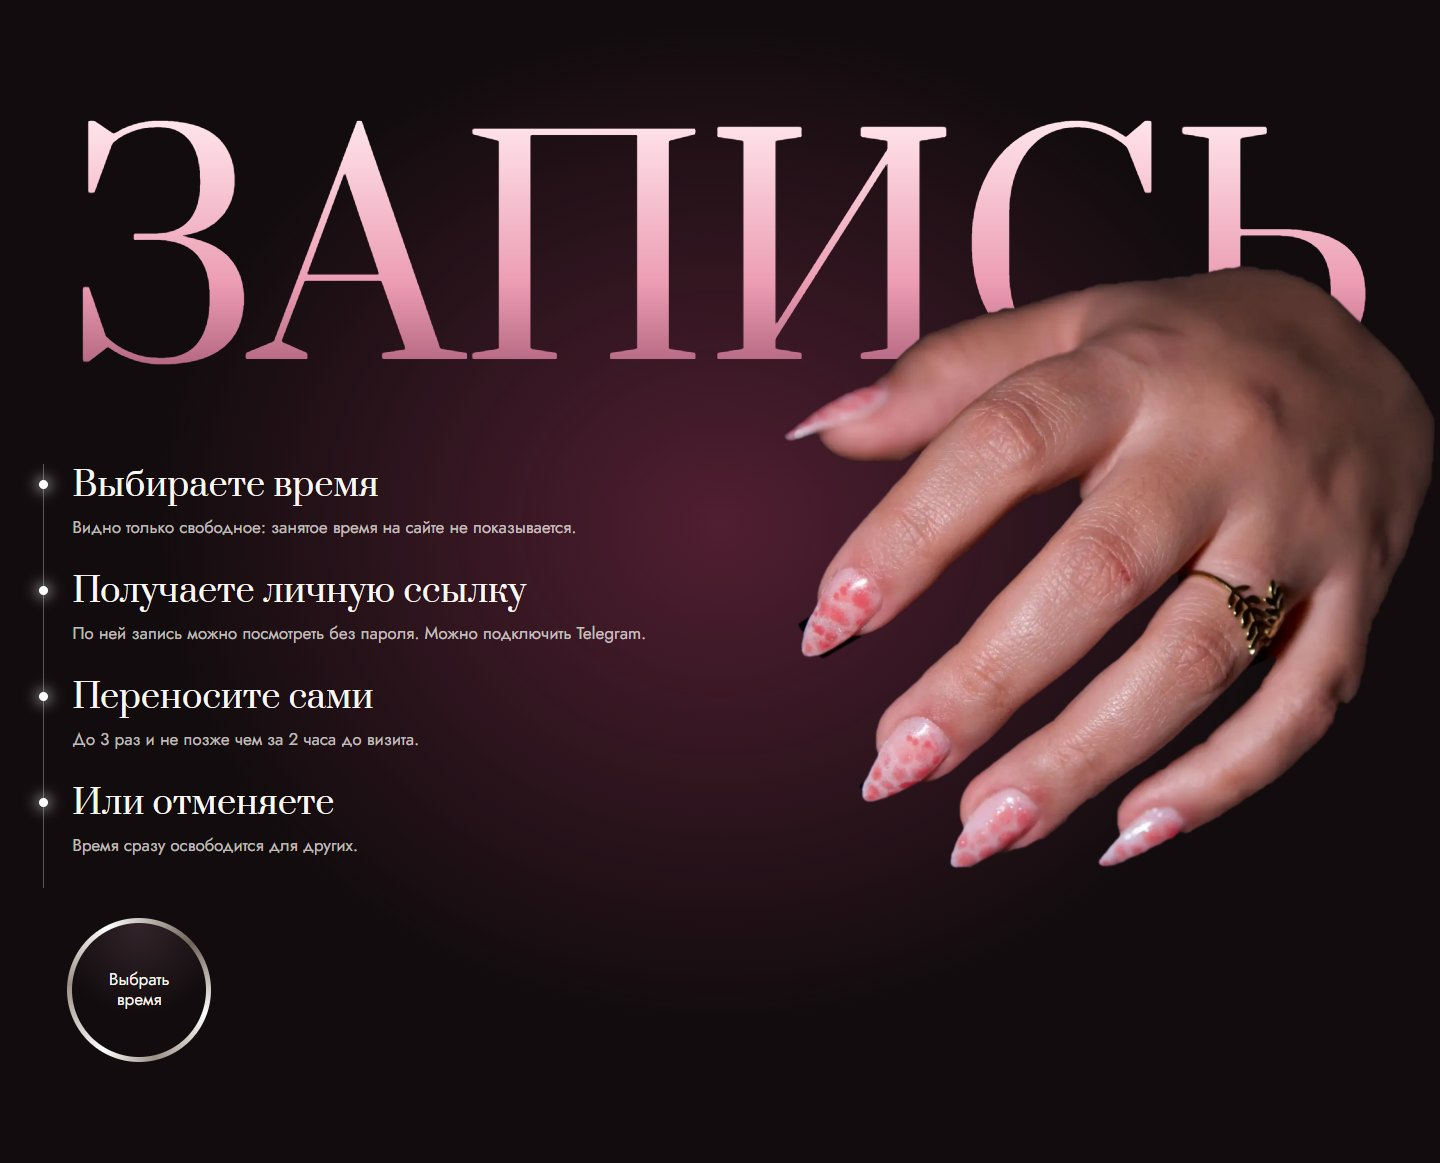
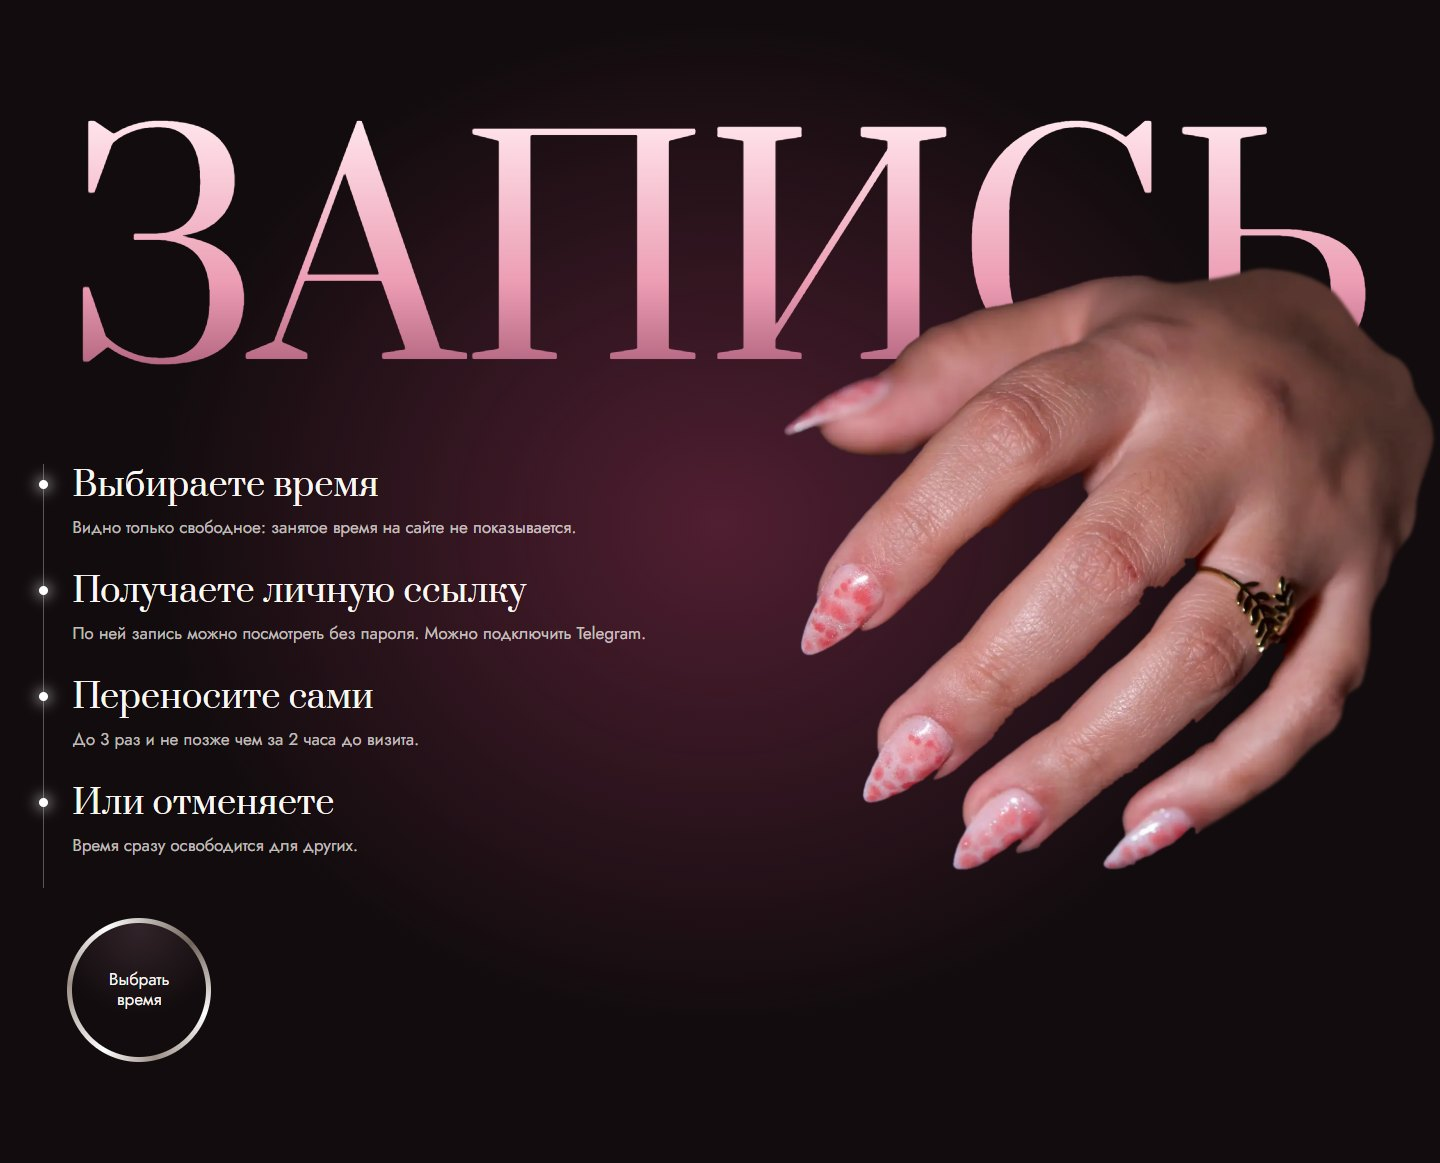
fix: ровный край руки в разделе «Запись»
Внешний край ладони и мизинца был рваным: на большом экране это бросалось
в глаза. Край сглажен и слегка смягчён, цвета взяты из исходного снимка.
Пальцы, ногти и кольцо не менялись, размер картинки тот же.

В отчёт добавлены результаты проверки дизайна на живом сайте.

diff --git a/docs/qa/report.md b/docs/qa/report.md
@@ -160,7 +160,7 @@
 
 Проверено на локальной сборке: 120 серверных и 31 браузерный тест, в том числе примерка цвета, быстрая запись, снятие галочки и страница 404. На ширинах 1920, 1280, 1024, 768, 390 и 320 пикселей проверены 13 страниц: сдвига вбок нет, обычные слова не разрываются, остались только переносы по дефису и длинная личная ссылка. Выбор цвета работает с клавиатуры, главная загружается без ошибок.
 
-На Vercel новая версия появится после отправки в `main`. До этого живой сайт показывает прошлый дизайн.
+Заказчик принял страницу целиком, коммит `aec7134` отправлен в `main`, сборка на Vercel прошла. На живом сайте проверено: главная, страница записи, вход в панель и русская страница 404 отвечают правильно, новые фото загружаются, удалённое старое фото отдаёт 404. На ширинах 1440, 1000 и 390 пикселей нет сдвига вбок, неудачных запросов и ошибок страницы. При прокрутке колёсиком на 1440 и 390 пикселях все разделы появляются. Снимок всей страницы без прокрутки показывает разделы пустыми: они появляются только при попадании на экран. Вход в панель с паролем и галочка на живом сайте после обновления не проверялись, галочку проверяют браузерные тесты на локальной сборке.
 
 ## Найденные и исправленные ошибки
 
